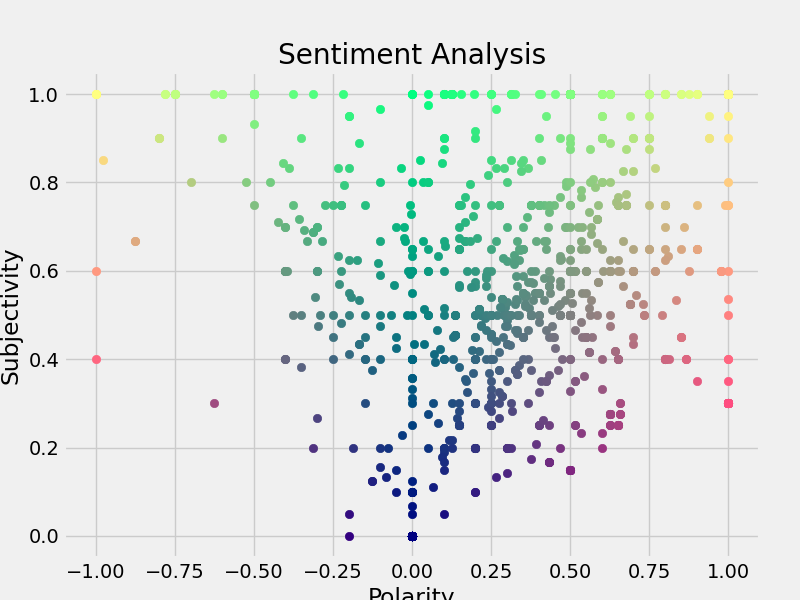
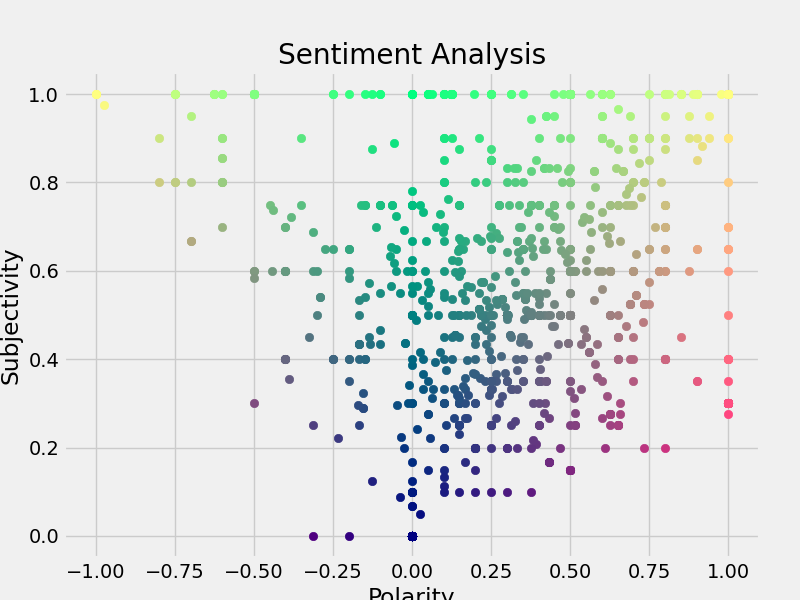
Test Run Result
{'2013': {'hosts': {'spelling': 1.0, 'completeness': 1.0}, 'awards': {'spelling': 0.7650073118497129, 'completeness': 0.22368421052631576}, 'nominees': {'spelling': 0.397000912131347, 'completeness': 0.0865142857142857}, 'presenters': {'spelling': 0.4230769230769231, 'completeness': 0.3064102564102564}, 'winner': {'spelling': 0.6153846153846154}}, '2015': {'hosts': {'spelling': 1.0, 'completeness': 1.0}, 'awards': {'spelling': 0.755095752495701, 'completeness': 0.32499999999999996}, 'nominees': {'spelling': 0.49374593271652095, 'completeness': 0.11309047619047621}, 'presenters': {'spelling': 0.5160256410256411, 'completeness': 0.2967948717948718}, 'winner': {'spelling': 0.6399161735700198}}}

diff --git a/README.md b/README.md
@@ -41,7 +41,7 @@ To run the code, use the command python sentiment_analysis.py. You need to add a
 
 Sentiment Analysis - General Sentiment Analysis for Common Subjects
 
-We implemented a code that scans all the tweets for positive and negative sentiment. It will look for positive words and tweets, negative tweets, and neutral tweets, producing a representative sample. Additionally, it will create a word cloud plot of common words and a corresponding sentiment score and polarity plot. The color of the words in the word cloud is mapped to the ones in the sentiment plot.
+We implemented a code that scans all the tweets for positive and negative sentiment. It will look for positive words and tweets, negative tweets, and neutral tweets, producing a representative sample. Additionally, it will create a word cloud plot of common words and a corresponding sentiment score and polarity plot. The color of the words in the word cloud is mapped to the ones in the sentiment plot. We have included the 2013 result as reference.
 
 To run the code, use the command python sentiment_analysis_general.py. You can add an optional year input. If it is not provided, then 2013 will be selected by default. The plot is designed to be saved in a folder called sentiment. However, the tool does not create the folder automatically. Please make sure that this folder is created in advance.
 
